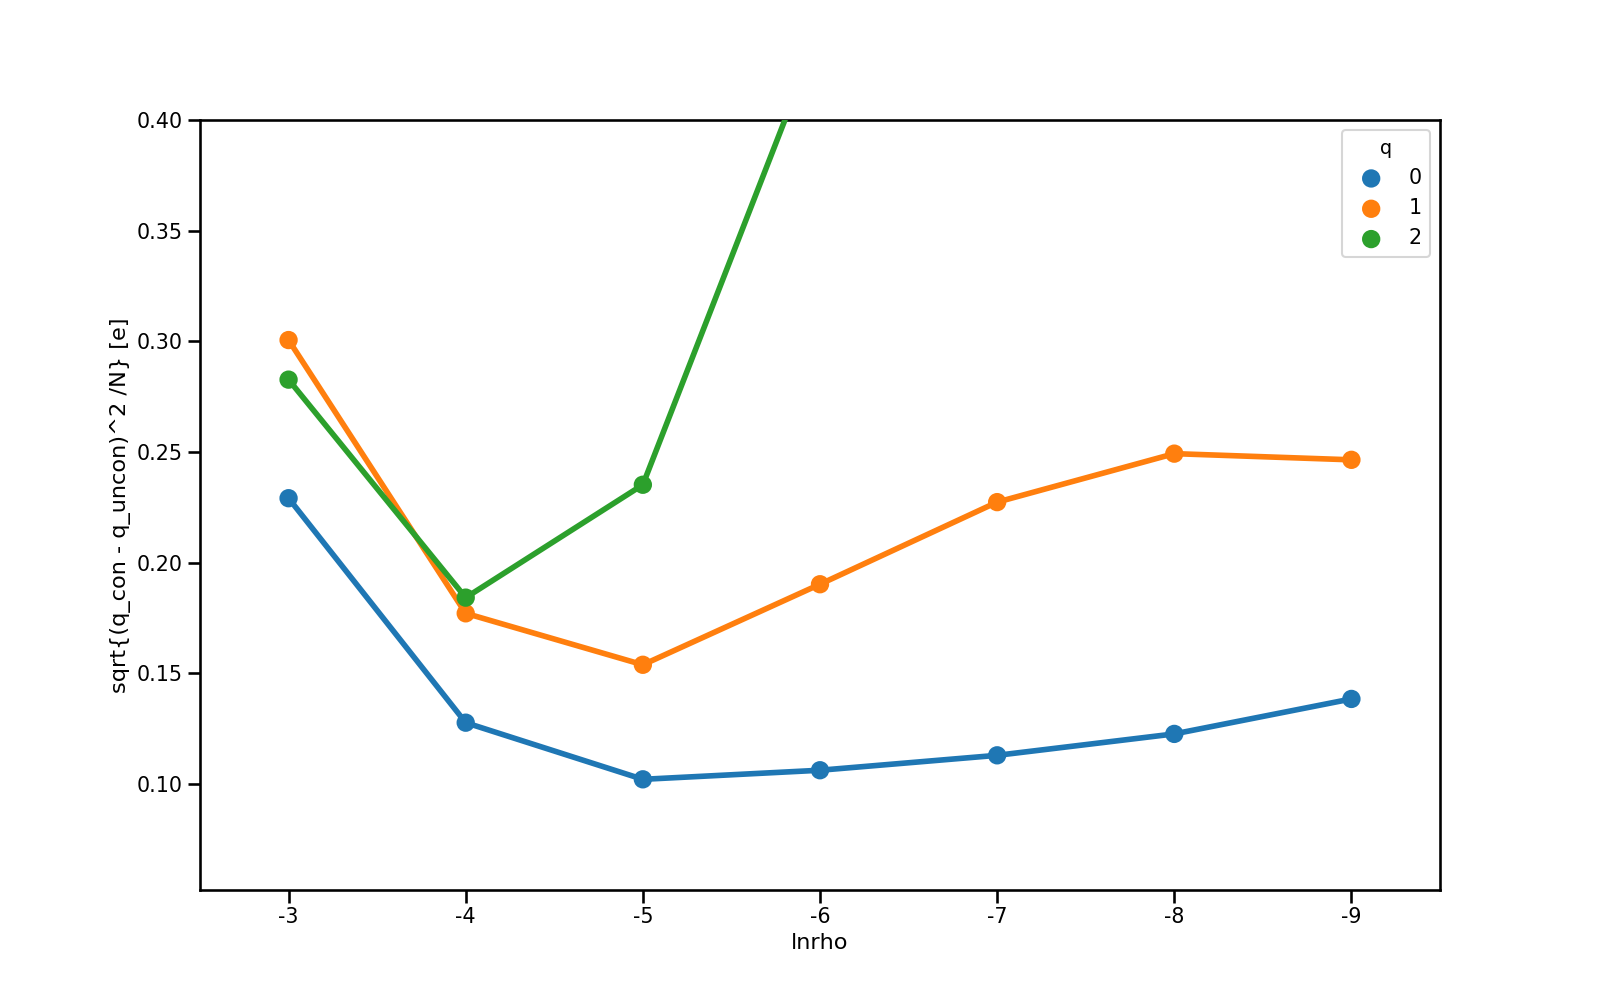
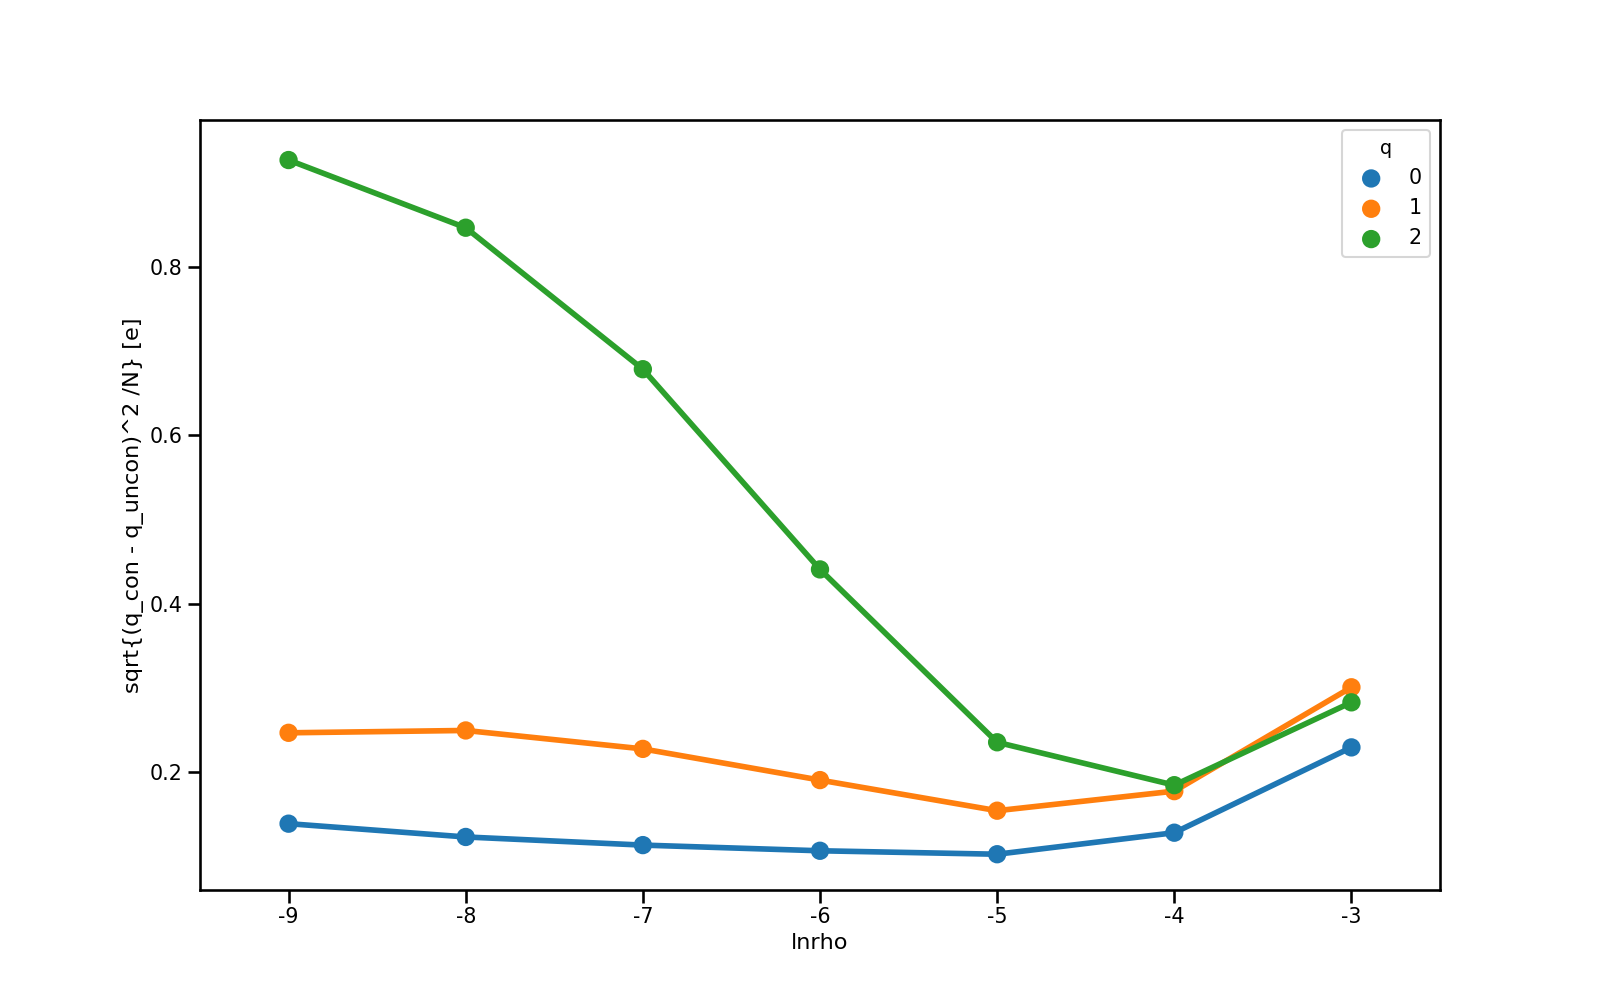
remove upper bound

diff --git a/plot_difference.py b/plot_difference.py
@@ -60,16 +60,16 @@ def parse_data(constr_file, unconstr_file):
 
 
 def calc_diff(df):
-      df = df.mean().apply(np.sqrt)
-      df = df.sort_index(ascending=False)
-      return df
+   df = df.mean().apply(np.sqrt)
+   df = df.sort_index(ascending=False)
+   return df
 
 @default_style
 def compare_plot(df, plotname='cumulative.png'):
    print('Plotting {}'.format(plotname))
    p = sns.pointplot(x='lnrho', y='diff', hue='q', data=df)
    ax = p.axes
-   ax.set_ylim(df['diff'].min() - 0.05, 0.4)
+#   ax.set_ylim(df['diff'].min() - 0.05, 0.4)
    #plt.xlabel('lnrhoref')
    plt.ylabel('sqrt{(q_con - q_uncon)^2 /N} [e]')
    p.figure.savefig('img/' + plotname)
@@ -100,6 +100,7 @@ def main():
    df['lnrho'] = df.index
    df = df.melt(id_vars=['lnrho'], var_name='q', value_name='diff')
    df['q'] = df['q'].astype(int)
+   df['lnrho'] = df['lnrho'].astype(int)
    compare_plot(df, plotname='lnrho_q_comparison.png')
 
    print('Done.')
